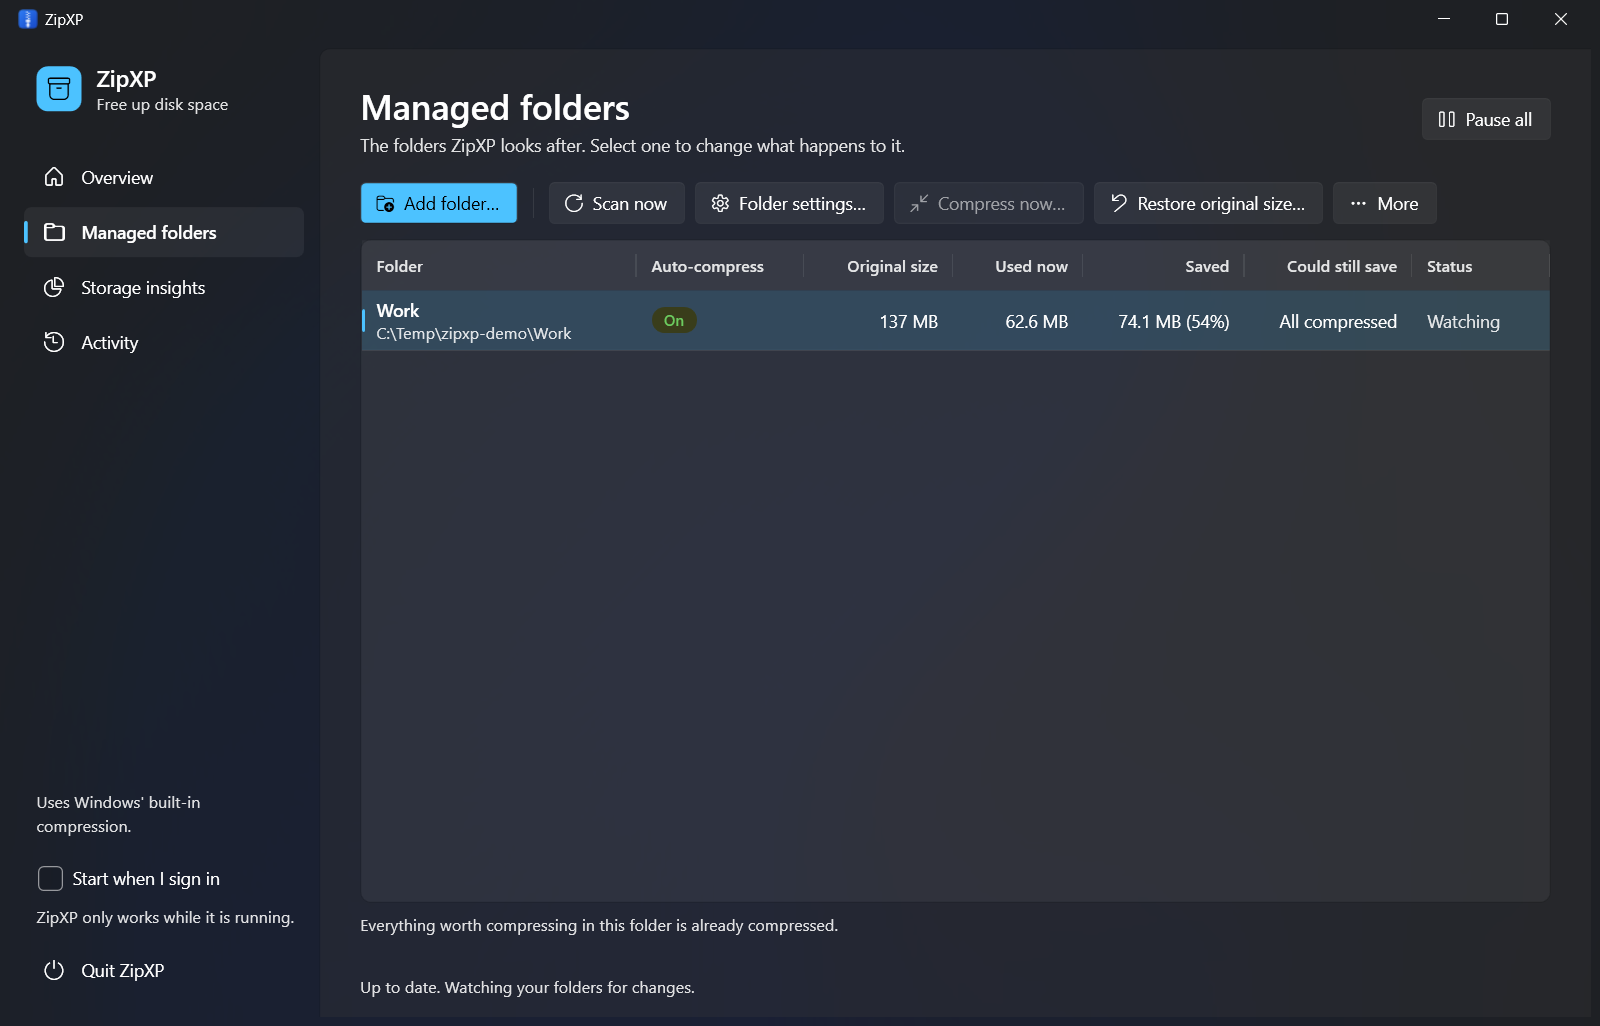
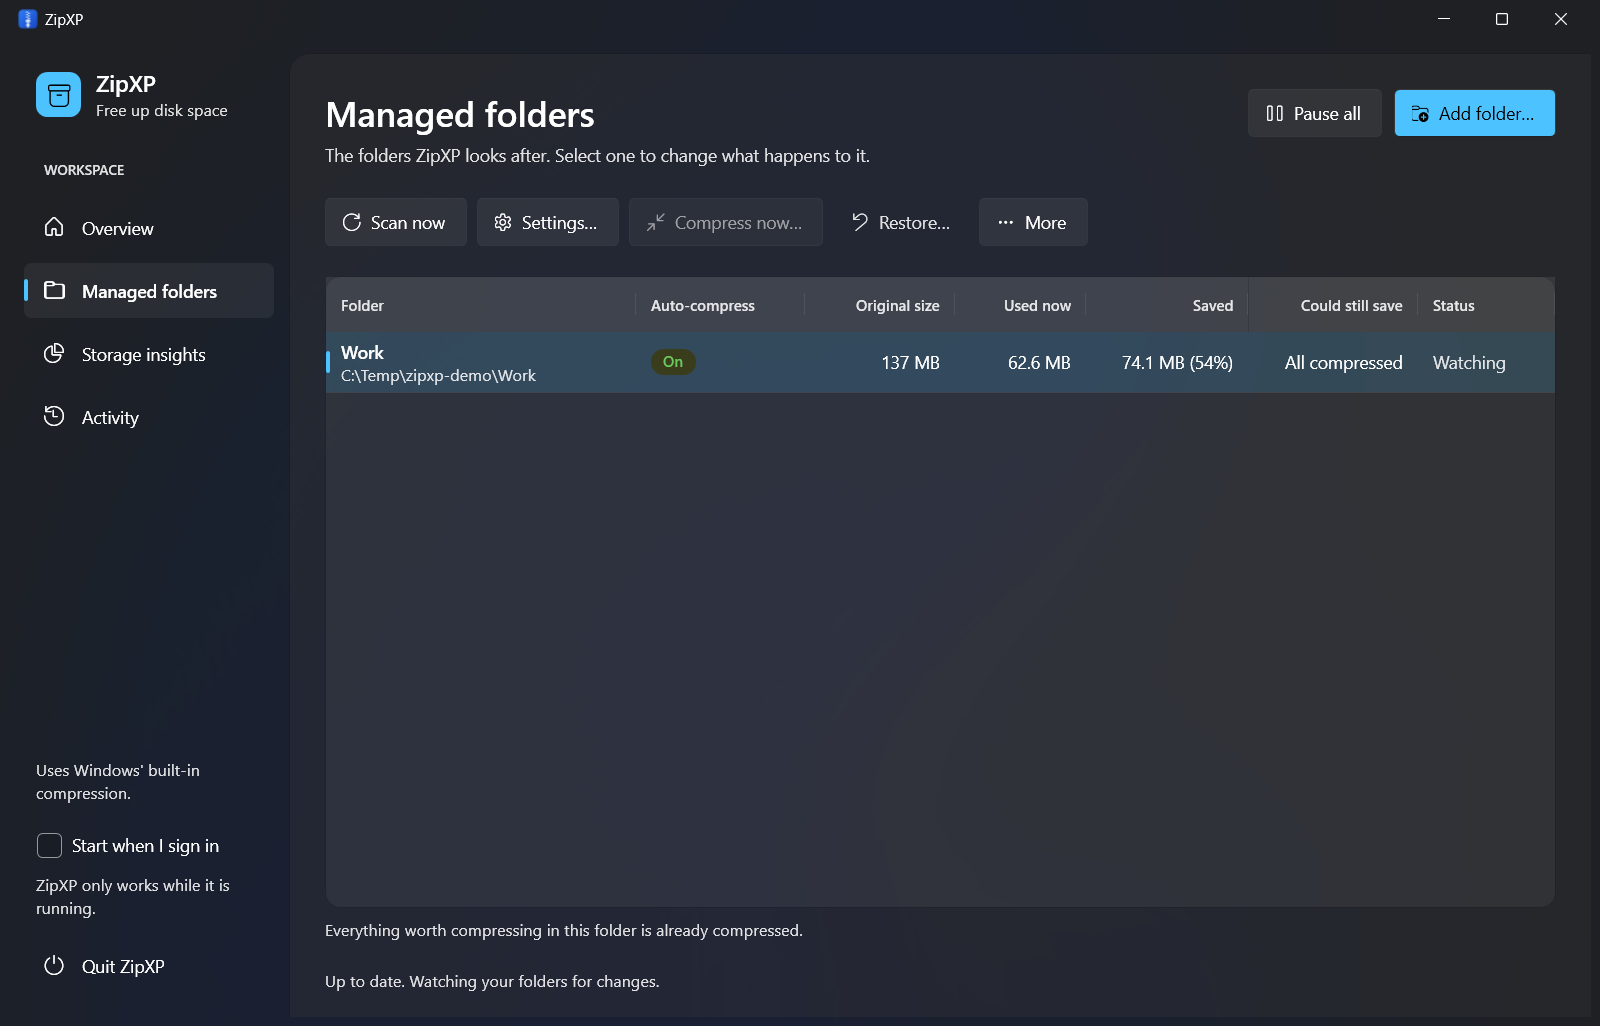
Fix duplicate BadgeGlyph style from merge; refresh screenshots
Both UI-polish changes added the same BadgeGlyph style; the app compiled but
crashed at startup with a XamlParseException. Removed the duplicate (found by
the WPF launch smoke test) and retook screenshots from the merged UI.

diff --git a/src/ZipXP.App/App.xaml b/src/ZipXP.App/App.xaml
@@ -67,10 +67,6 @@
             <Style x:Key="BadgeGlyph" TargetType="TextBlock" BasedOn="{StaticResource Glyph}">
                 <Setter Property="Foreground" Value="{DynamicResource AccentTextFillColorPrimaryBrush}" />
             </Style>
-            <!-- Icon inside a card's rounded tile: explicit accent colour so it is readable in light and dark. -->
-            <Style x:Key="BadgeGlyph" TargetType="TextBlock" BasedOn="{StaticResource Glyph}">
-                <Setter Property="Foreground" Value="{DynamicResource AccentTextFillColorPrimaryBrush}" />
-            </Style>
             <Style x:Key="IconBadge" TargetType="Border">
                 <Setter Property="Width" Value="32" /><Setter Property="Height" Value="32" /><Setter Property="CornerRadius" Value="8" />
                 <Setter Property="Margin" Value="0,0,12,0" />
